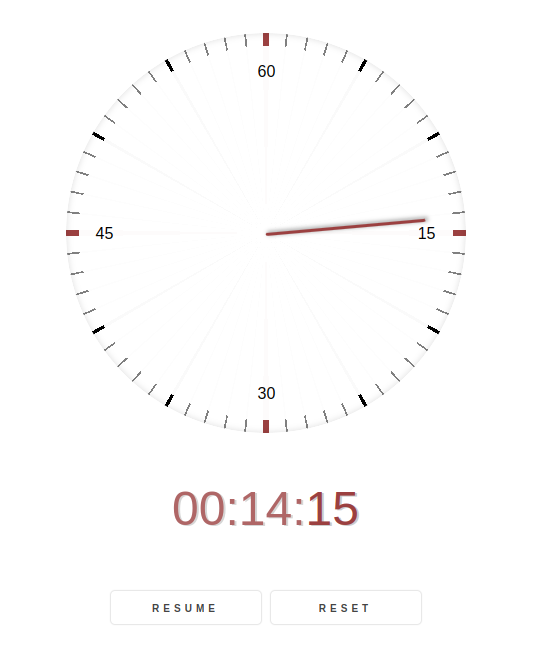
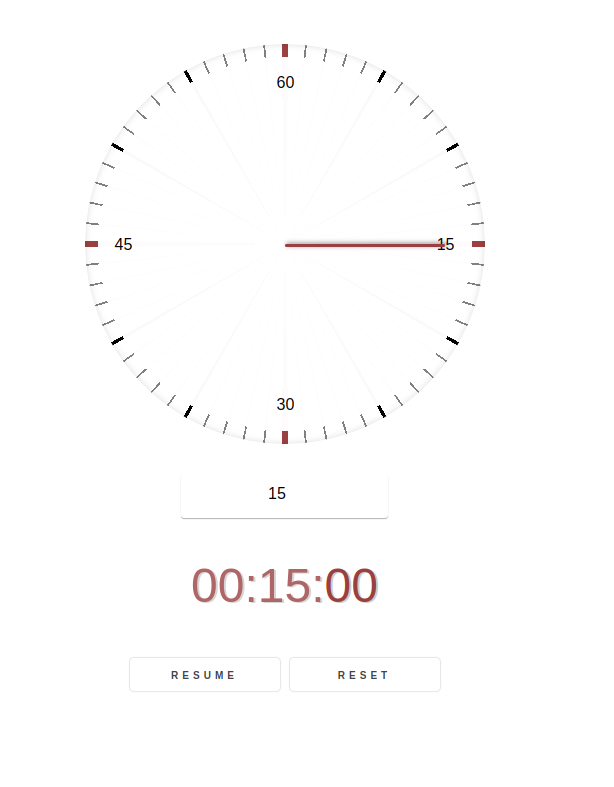
Input for pause update

diff --git a/src/App.tsx b/src/App.tsx
@@ -9,10 +9,13 @@ const App: React.FC = () => {
   const [isActive, setIsActive] = useState(false);
   const [isPaused, setIsPaused] = useState(true);
   const [time, setTime] = useState(0);
+  const [limit, setLimit] = useState<number | null>(null);
 
   useEffect(() => {
-    let interval: Timer = null; //TODO type
-    if (isActive && isPaused === false) {
+    let interval: Timer = null;
+
+    if (limit && time >= limit) setIsPaused(true)
+    else if (isActive && isPaused === false) {
       interval = setInterval(() => {
         setTime((time) => time + 10);
       }, 10);
@@ -23,7 +26,7 @@ const App: React.FC = () => {
       interval && clearInterval(interval);
     };
 
-  }, [isActive, isPaused]);
+  }, [isActive, isPaused, limit, time]);
 
   const handleStart = () => {
     setIsActive(true);
@@ -37,9 +40,14 @@ const App: React.FC = () => {
     setTime(0);
   };
 
+  const handleLimit = (e: React.ChangeEvent<HTMLInputElement>) => setLimit(Number(e.currentTarget.value) * 1000);
+
   return (
     <div className="stopwatch-page">
       <AnalogStopwatch time={time} />
+      <div className="input-wrap">
+        <input type="number" className="input-limit" onChange={(e) => handleLimit(e)} placeholder="Seconds to pause" />
+      </div>
       <DigitalStopwatch time={time} />
       <div className="button-wrap">
         {!isActive ?

diff --git a/src/style.scss b/src/style.scss
@@ -80,11 +80,47 @@ html {
   }
 }
 
+.input-wrap {
+  display: flex;
+  justify-content: center;
+  margin-top: 30px;
+
+  .input-limit {
+    all: unset;
+    height: 40px;
+    border-radius: 3px;
+    box-shadow: 0px 1px 1px rgba(0, 0, 0, 0.3);
+    padding-bottom: 4px;
+    text-align: center;
+  }
+}
+
+.digital-timer {
+  margin: 2.5rem 0;
+  width: 100%;
+  display: flex;
+  height: 12%;
+  justify-content: center;
+  align-items: center;
+
+  .digits {
+    font-size: 3rem;
+    color: var(--primary);
+    opacity: 0.8;
+    text-shadow: 2px 1px rgba(0, 0, 0, 0.2);
+  }
+
+  .mili-sec {
+    color: (--primary);
+    opacity: 1;
+  }
+}
+
 .button-wrap {
   display: flex;
   flex: 1;
   justify-content: center;
-  margin: 50px 0;
+  margin: 30px 0;
 
   button {
     all: unset;
@@ -110,26 +146,5 @@ html {
     &:active {
       box-shadow: inset 0 0 3px 1px rgba(0, 0, 0, 0.1);
     }
-  }
-}
-
-.digital-timer {
-  margin: 3rem 0;
-  width: 100%;
-  display: flex;
-  height: 12%;
-  justify-content: center;
-  align-items: center;
-
-  .digits {
-    font-size: 3rem;
-    color: var(--primary);
-    opacity: 0.8;
-    text-shadow: 2px 1px rgba(0, 0, 0, 0.2);
-  }
-
-  .mili-sec {
-    color: (--primary);
-    opacity: 1;
   }
 }
